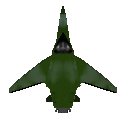
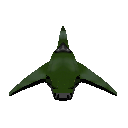
Changed perspective. Ship will now move with arrow keys

Changed region(s): [[0.0625, 0.0312, 0.9375, 0.9062], [0.4688, 0.4375, 0.5312, 0.4688], [0.4375, 0.5312, 0.4688, 0.5625]]

diff --git a/src/gameplay.c b/src/gameplay.c
@@ -7,6 +7,7 @@ static int playerAnimFrame = 0;
 static Vector2 playerPosition = {0.0f, 0.0f};
 static Rectangle playerAnimRec = {0.0f,0.0f,0.0f,0.0f};
 static float frameCounter  = 0.0f; 
+static float playerSpeed = 10.0f;
 
 void UpdateGameplayScene(Vector2 mousePos){
 	frameCounter++;
@@ -16,8 +17,18 @@ void UpdateGameplayScene(Vector2 mousePos){
 		playerAnimFrame++;
 		frameCounter = 0;
 	}
-
-	playerPosition = (Vector2){mousePos.x - (jetTextMoving.width/10.0f) / 2.0f, mousePos.y - jetTextMoving.height /2.0f };
+	
+	if(IsKeyDown(KEY_RIGHT)){
+		//playerPosition.x += playerSpeed;
+	}
+	
+	playerPosition.x += IsKeyDown(KEY_RIGHT) * playerSpeed; 	
+	playerPosition.x -= IsKeyDown(KEY_LEFT) * playerSpeed; 	
+	playerPosition.y += IsKeyDown(KEY_DOWN) * playerSpeed; 	
+	playerPosition.y -= IsKeyDown(KEY_UP) * playerSpeed; 	
+	
+	
+	//playerPosition = (Vector2){mousePos.x - (jetTextMoving.width/10.0f) / 2.0f, mousePos.y - jetTextMoving.height /2.0f };
 
 }
 

diff --git a/src/dwars.c b/src/dwars.c
@@ -9,7 +9,6 @@ static RenderTexture2D framebufferRender;
 
 scene CurrentScene = GAMEPLAY; 
 
-
 void UpdateFrame();
 void DrawFrame();
 
@@ -18,7 +17,7 @@ Vector2 GetVirtualMousePosition();
 int main(){
 
     SetTargetFPS(30);
-	SetConfigFlags(FLAG_WINDOW_RESIZABLE| FLAG_FULLSCREEN_MODE);
+	SetConfigFlags(FLAG_WINDOW_RESIZABLE);
 	InitWindow(gameWidth,gameHeight,"War of Donuts");
 	framebufferRender = LoadRenderTexture(gameWidth,gameHeight);
 	SetTextureFilter(framebufferRender.texture,TEXTURE_FILTER_BILINEAR);
@@ -51,9 +50,9 @@ void DrawFrame(){
 	BeginTextureMode(framebufferRender);
 		ClearBackground(BLACK);
 		DrawGameplayScene();
-		for(int y = 0; y < 10;y++){
+		/*for(int y = 0; y < 10;y++){
 			DrawRectangle(0,y*100+100,1280,20,RED);
-		}	
+		}*/	
 	
 	DrawText(TextFormat("%f , %f",GetVirtualMousePosition().x, GetVirtualMousePosition().y), 0,0,100,WHITE);		
 
